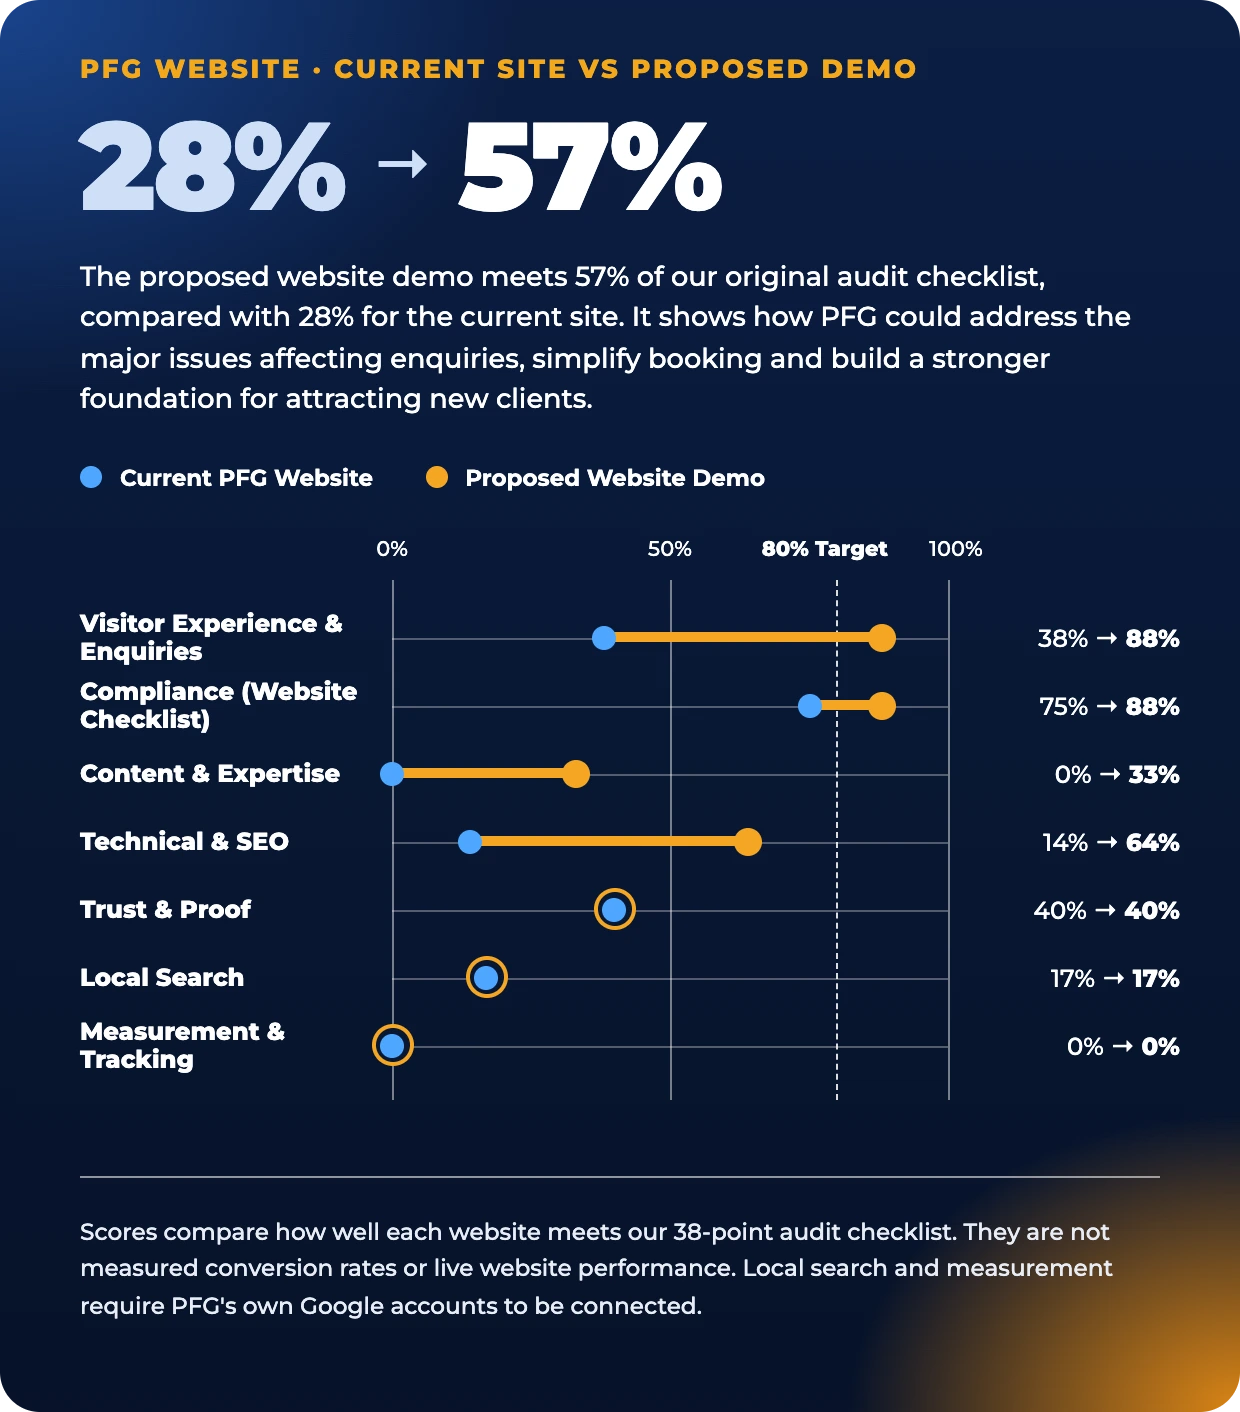
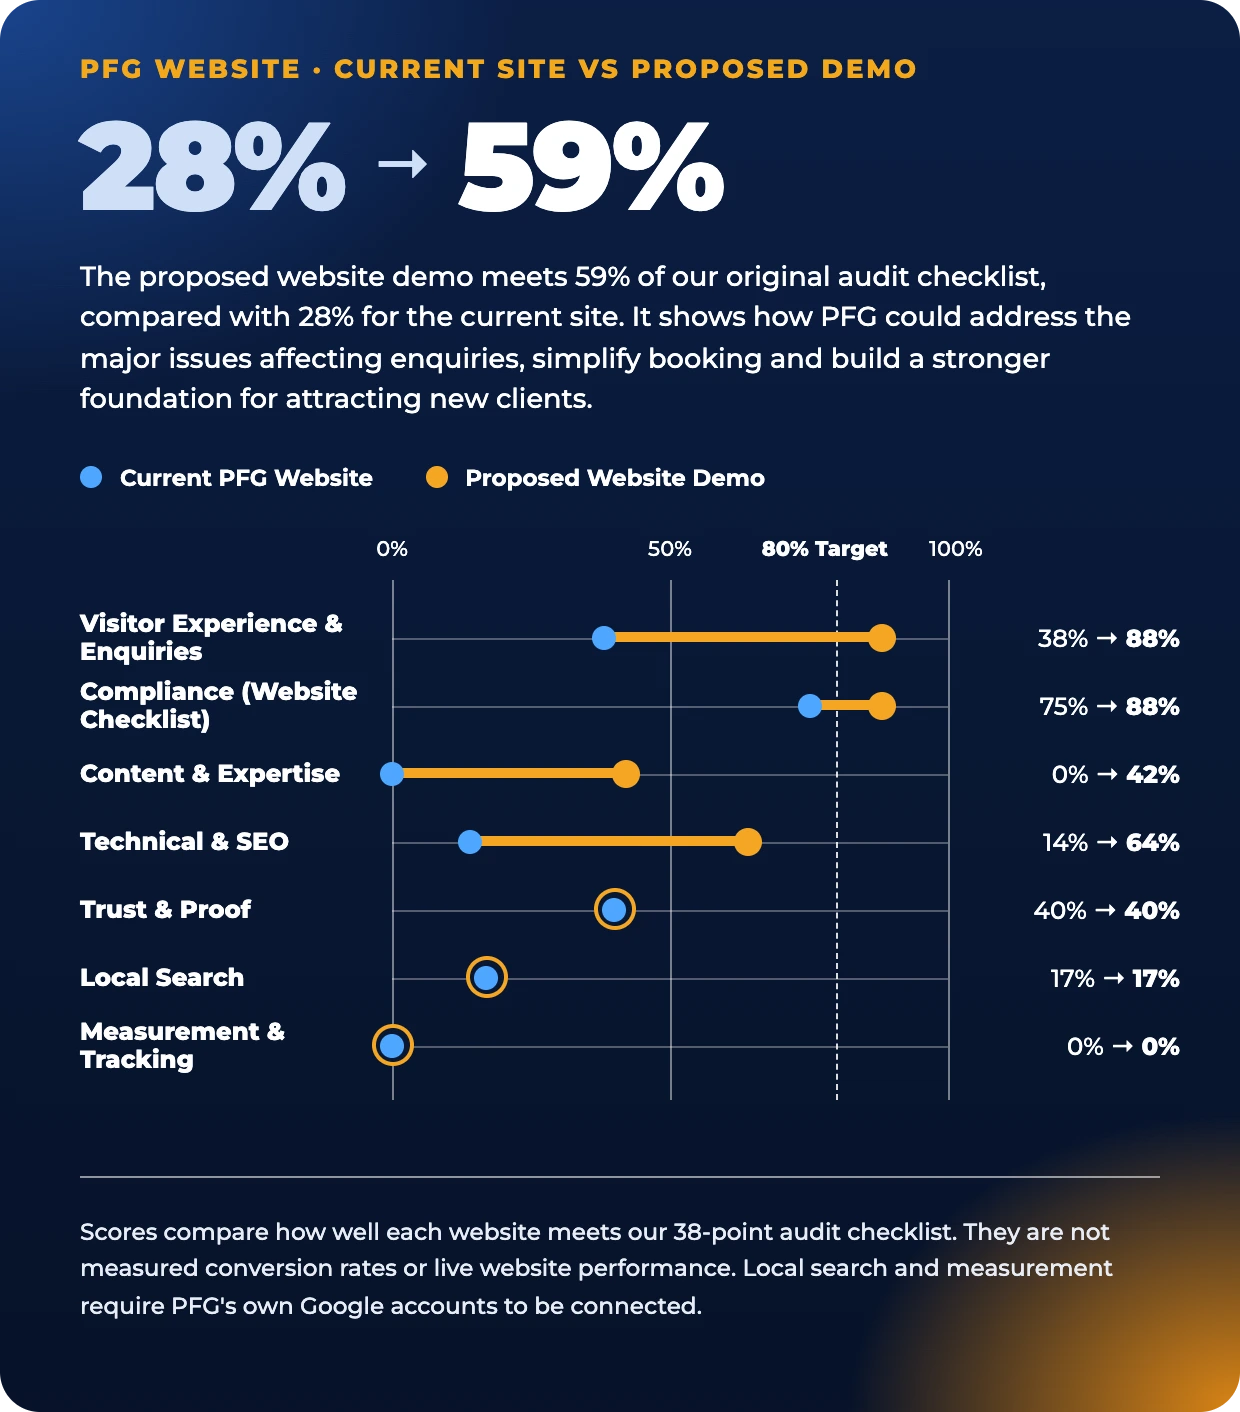
Count the Blueprint guide as met now its email delivery is confirmed
Item 15 moves to Meets, so the demo's checklist score goes from 57% to 59%.

diff --git a/index.html b/index.html
@@ -280,7 +280,7 @@ h3.sub{text-align:center}
 .gauge .row2.axis{margin-top:4px}
 .gauge .row2.axis .scale{margin-top:0}
 .gauge .row2.was .bar i{background:#5A5872;width:28%}
-.gauge .row2.now .bar i{width:57%}
+.gauge .row2.now .bar i{width:59%}
 .gauge .from{font-family:var(--f-display);font-size:2rem;color:var(--band-muted);margin-right:10px;text-decoration:line-through;text-decoration-thickness:2px;text-decoration-color:rgba(169,166,198,.5)}
 .gauge .score .arrow{font-family:var(--f-mono);font-size:1.6rem;color:var(--band-muted);margin-right:10px;vertical-align:.35em}
 
@@ -395,9 +395,9 @@ main .close.cta p{color:var(--band-muted)}
       <span class="kind">PFG Website Demo Comparison</span>
     </div>
     <div>
-      <h1>From 28% to 57%. <em>Here's what a better PFG website could look like.</em></h1>
+      <h1>From 28% to 59%. <em>Here's what a better PFG website could look like.</em></h1>
       <p class="lede">After reviewing PFG's existing website, we decided to go a step further than simply recommending improvements. We've built a working demonstration to show how PFG could have a more modern, professional website that better reflects its 36 years of experience and makes it easier for potential clients to get in touch.</p>
-      <p class="lede">Based on our original audit checklist, the proposed website has been provisionally assessed at <b>57%</b>, compared with <b>28%</b> for the current site.</p>
+      <p class="lede">Based on our original audit checklist, the proposed website has been provisionally assessed at <b>59%</b>, compared with <b>28%</b> for the current site.</p>
       <p class="lede small">These figures represent checklist assessments of the existing website and the proposed demonstration, not proven increases in enquiries or conversions.</p>
       <div class="meta">
         <div><b>Prepared for</b>Angelo Panella, Founder<br>PFG Financial Services</div>
@@ -409,11 +409,11 @@ main .close.cta p{color:var(--band-muted)}
         <a class="pill" href="https://pfgaudit.primeflowai.online/" target="_blank" rel="noopener">Read the original audit ↗</a>
       </div>
     </div>
-    <div class="gauge" aria-label="Provisional checklist score: 28% for the current PFG website, 57% for the proposed website demo">
+    <div class="gauge" aria-label="Provisional checklist score: 28% for the current PFG website, 59% for the proposed website demo">
       <div class="eyebrow" style="color:var(--band-muted)">Provisional checklist score</div>
-      <div class="score num"><span class="from">28%</span><span class="arrow">→</span><span id="score">57</span><small>%</small></div>
+      <div class="score num"><span class="from">28%</span><span class="arrow">→</span><span id="score">59</span><small>%</small></div>
       <div class="row2 was"><span>Current PFG website</span><div class="bar"><i></i></div><b class="num">28%</b></div>
-      <div class="row2 now"><span>Proposed website demo</span><div class="bar"><i></i></div><b class="num">57%</b></div>
+      <div class="row2 now"><span>Proposed website demo</span><div class="bar"><i></i></div><b class="num">59%</b></div>
       <div class="row2 axis"><span></span><div class="scale"><span>0%</span><span>50%</span><span>100%</span></div><b></b></div>
     </div>
   </div>
@@ -487,7 +487,7 @@ main .close.cta p{color:var(--band-muted)}
       <div class="cat" role="listitem"><div class="lab">Visitor experience &amp; enquiries<span>8 items</span></div><div class="tracks"><div class="track was"><i style="width:38%"></i><span class="target"></span></div><div class="track"><i style="width:88%;background:var(--pass)"></i><span class="target"></span></div></div><div class="pct num"><s>38%</s> → <b class="up">88%</b></div></div>
       <div class="cat" role="listitem"><div class="lab">Compliance (website checklist)<span>4 items</span></div><div class="tracks"><div class="track was"><i style="width:75%"></i><span class="target"></span></div><div class="track"><i style="width:88%;background:var(--pass)"></i><span class="target"></span></div></div><div class="pct num"><s>75%</s> → <b class="up">88%</b></div></div>
       <div class="cat" role="listitem"><div class="lab">Technical &amp; SEO basics<span>7 items</span></div><div class="tracks"><div class="track was"><i style="width:14%"></i><span class="target"></span></div><div class="track"><i style="width:64%;background:var(--part)"></i><span class="target"></span></div></div><div class="pct num"><s>14%</s> → <b class="up">64%</b></div></div>
-      <div class="cat" role="listitem"><div class="lab">Content &amp; expertise<span>6 items</span></div><div class="tracks"><div class="track was"><i style="width:2px"></i><span class="target"></span></div><div class="track"><i style="width:33%;background:var(--part)"></i><span class="target"></span></div></div><div class="pct num"><s>0%</s> → <b class="up">33%</b></div></div>
+      <div class="cat" role="listitem"><div class="lab">Content &amp; expertise<span>6 items</span></div><div class="tracks"><div class="track was"><i style="width:2px"></i><span class="target"></span></div><div class="track"><i style="width:42%;background:var(--part)"></i><span class="target"></span></div></div><div class="pct num"><s>0%</s> → <b class="up">42%</b></div></div>
       <div class="cat" role="listitem"><div class="lab">Trust &amp; proof<span>5 items</span></div><div class="tracks"><div class="track was"><i style="width:40%"></i><span class="target"></span></div><div class="track"><i style="width:40%;background:var(--part)"></i><span class="target"></span></div></div><div class="pct num"><s>40%</s> → <b>40%</b></div></div>
       <div class="cat" role="listitem"><div class="lab">Local search<span>3 items</span></div><div class="tracks"><div class="track was"><i style="width:17%"></i><span class="target"></span></div><div class="track"><i style="width:17%;background:var(--fail)"></i><span class="target"></span></div></div><div class="pct num"><s>17%</s> → <b>17%</b></div></div>
       <div class="cat" role="listitem"><div class="lab">Measurement &amp; tracking<span>1 item</span></div><div class="tracks"><div class="track was"><i style="width:2px"></i><span class="target"></span></div><div class="track"><i style="width:2px;background:var(--fail)"></i><span class="target"></span></div></div><div class="pct num"><s>0%</s> → <b>0%</b></div></div>
@@ -563,10 +563,10 @@ main .close.cta p{color:var(--band-muted)}
           <tr><td class="n">11</td><td>Adviser Ratings profiles with client reviews</td><td class="st"><span class="chip fail">Missing</span></td><td class="st"><span class="chip fail">Missing</span></td><td>Lives outside the website. Clients need to be asked for reviews on Adviser Ratings.</td></tr>
           <tr><td class="n">12</td><td>Location pages for each office and the suburbs you serve</td><td class="st"><span class="chip fail">Missing</span></td><td class="st"><span class="chip fail">Missing</span></td><td>Not built yet. The footer has a link for each office, ready for these pages.</td></tr>
 
-          <tr class="group"><td colspan="5">Content &amp; expertise <span>0 → 2 of 6</span></td></tr>
+          <tr class="group"><td colspan="5">Content &amp; expertise <span>0 → 2½ of 6</span></td></tr>
           <tr><td class="n">13</td><td>A dated insights blog, updated at least twice a month</td><td class="st"><span class="chip fail">Missing</span></td><td class="st"><span class="chip fail">Missing</span></td><td>The demo's Insights page lists six dated topics, but no articles have been written or published yet.</td></tr>
           <tr><td class="n">14</td><td>Pages for the people you serve best (pre-retirees, business owners, families)</td><td class="st"><span class="chip fail">Missing</span></td><td class="st"><span class="chip pass">Meets</span></td><td>A "Who we help" section speaks directly to pre-retirees, business owners and growing families, each with its own next step.</td></tr>
-          <tr><td class="n">15</td><td>Downloadable guides (retirement checklist, estate planning guide)</td><td class="st"><span class="chip fail">Missing</span></td><td class="st"><span class="chip part">Partial</span></td><td>The Retirement Wealth Blueprint builds a personalised seven-page PDF report from a visitor's answers and is set up to email it. Email delivery wasn't retested for this review, and there's no general guide yet, such as a retirement checklist or estate planning guide.</td></tr>
+          <tr><td class="n">15</td><td>Downloadable guides (retirement checklist, estate planning guide)</td><td class="st"><span class="chip fail">Missing</span></td><td class="st"><span class="chip pass">Meets</span></td><td>The Retirement Wealth Blueprint builds a personalised seven-page PDF report from a visitor's answers and emails it to them. Email delivery is tested and working in the demo. A general retirement checklist or estate planning guide could be added later.</td></tr>
           <tr><td class="n">16</td><td>Email newsletter with sign-up on every page</td><td class="st"><span class="chip fail">Missing</span></td><td class="st"><span class="chip part">Partial</span></td><td>A "monthly money notes" sign-up sits in the footer of every page, but it isn't connected to an email platform and no newsletter exists yet.</td></tr>
           <tr><td class="n">17</td><td>Video or podcast series</td><td class="st"><span class="chip fail">Missing</span></td><td class="st"><span class="chip fail">Missing</span></td><td>Social links are now in the footer and Angelo's page has a slot for his video, but there are no videos or channels yet.</td></tr>
           <tr><td class="n">18</td><td>Seasonal explainers: Federal Budget, EOFY, super changes</td><td class="st"><span class="chip fail">Missing</span></td><td class="st"><span class="chip fail">Missing</span></td><td>EOFY super and Federal Budget topics are listed on the Insights page, but the explainers themselves haven't been written yet.</td></tr>
@@ -617,7 +617,7 @@ main .close.cta p{color:var(--band-muted)}
     <div class="phases">
       <div class="phase">
         <div class="when">Stage 1 · Complete and refine</div>
-        <div class="score-step num">57% → <em>66%</em></div>
+        <div class="score-step num">59% → <em>68%</em></div>
         <p class="who">Finalise outstanding pages, links, technical improvements, mobile performance and accessibility.</p>
         <ul>
           <li>A sitemap and robots file, and every dead link fixed <small>(item 4, +1)</small></li>
@@ -629,21 +629,20 @@ main .close.cta p{color:var(--band-muted)}
       </div>
       <div class="phase">
         <div class="when">Stage 2 · Add PFG's genuine content</div>
-        <div class="score-step num">66% → <em>88%</em></div>
+        <div class="score-step num">68% → <em>88%</em></div>
         <p class="who">Complete adviser profiles, verify qualifications and awards, add approved testimonials, and publish useful financial articles and videos.</p>
         <ul>
           <li>Genuine, consented client reviews in place of the samples <small>(item 29, +1)</small></li>
           <li>Every sample replaced with PFG's own material <small>(item 6, +½)</small></li>
           <li>Articles published regularly <small>(item 13, +1)</small></li>
           <li>EOFY, Federal Budget and super-change explainers <small>(item 18, +1)</small></li>
-          <li>A downloadable retirement checklist or estate planning guide <small>(item 15, +½)</small></li>
           <li>A short introduction video for the firm and each adviser <small>(item 28, +1)</small></li>
           <li>A regular video series <small>(item 17, +1)</small></li>
           <li>A full profile for every adviser, with qualifications and register link <small>(item 27, +½)</small></li>
           <li>The Beddoes award year, with both awards named on the page <small>(item 30, +½)</small></li>
           <li>PFG's real Google rating in place of the sample figure <small>(item 35, +½)</small></li>
         </ul>
-        <div class="out">Adds 7½ checklist points.</div>
+        <div class="out">Adds 7 checklist points.</div>
       </div>
       <div class="phase">
         <div class="when">Stage 3 · Connect the business systems</div>
@@ -741,7 +740,7 @@ main .close.cta p{color:var(--band-muted)}
         <p><b>We've built the concept. Now PFG can see what's possible.</b></p>
       </div>
       <figure class="chart-img">
-        <a href="progress-chart.webp?v=2" target="_blank" rel="noopener"><img src="progress-chart.webp?v=2" width="1240" height="1412" loading="lazy" alt="PFG website, current site versus proposed demo: 28% to 57% of the audit checklist. Visitor experience and enquiries 38% to 88%, compliance (website checklist) 75% to 88%, content and expertise 0% to 33%, technical and SEO 14% to 64%, trust and proof 40% to 40%, local search 17% to 17%, measurement and tracking 0% to 0%."></a>
+        <a href="progress-chart.webp?v=3" target="_blank" rel="noopener"><img src="progress-chart.webp?v=3" width="1240" height="1412" loading="lazy" alt="PFG website, current site versus proposed demo: 28% to 59% of the audit checklist. Visitor experience and enquiries 38% to 88%, compliance (website checklist) 75% to 88%, content and expertise 0% to 42%, technical and SEO 14% to 64%, trust and proof 40% to 40%, local search 17% to 17%, measurement and tracking 0% to 0%."></a>
       </figure>
     </div>
   </div>
